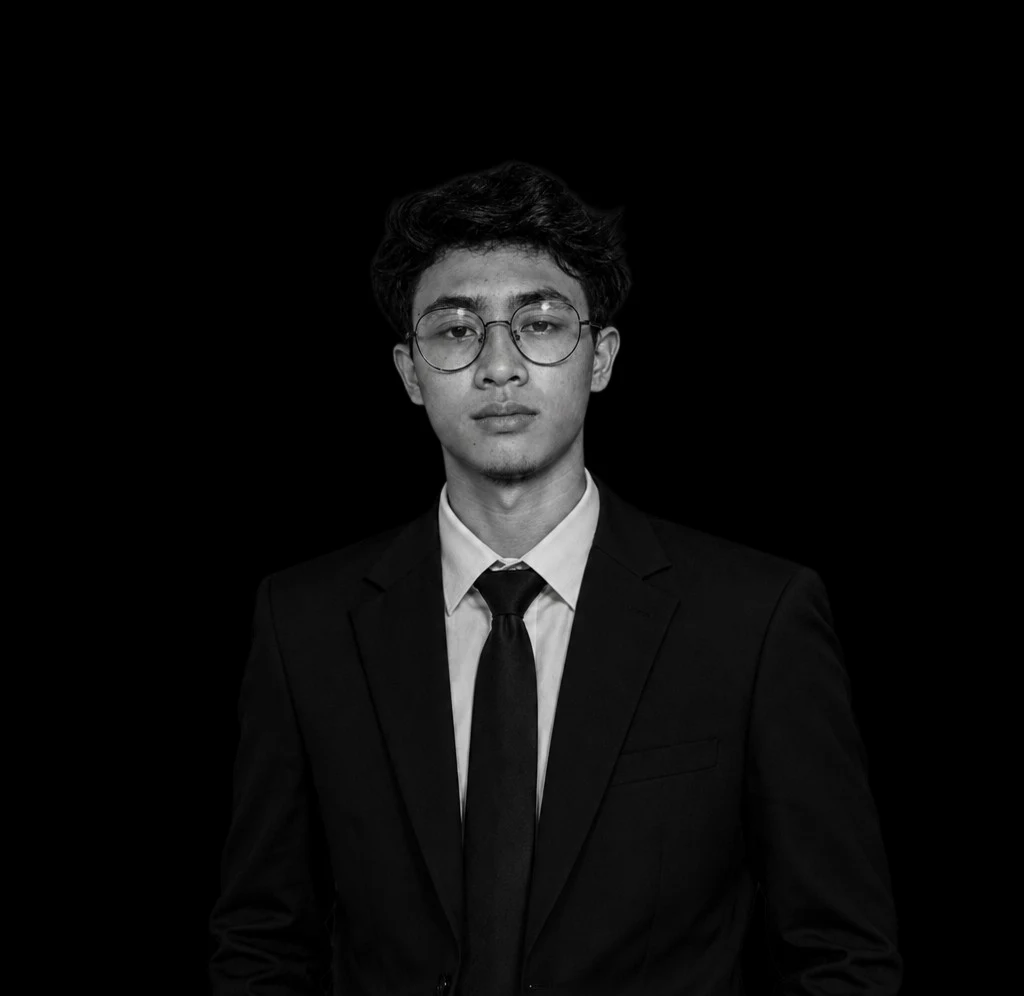
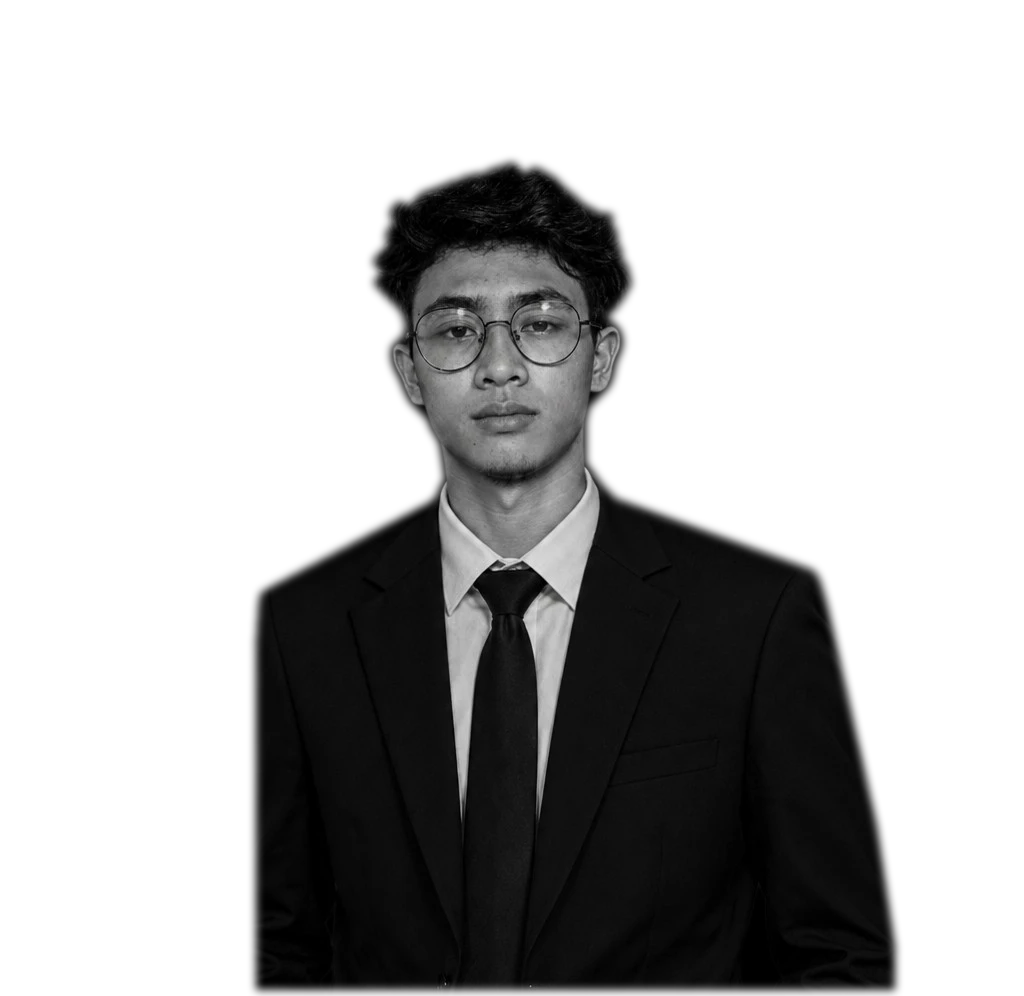
Sentuhan akhir: foto kontak baru, hero lebih lebar, FARROS diperkecil, potret transparan tanpa garis hitam
Claude-Session: https://claude.ai/code/session_0129G4VN59PCTKRLdZxBgguF

diff --git a/src/components/Hero.tsx b/src/components/Hero.tsx
@@ -54,14 +54,14 @@ export default function Hero() {
             fetchPriority="high"
             className="h-[72%] w-auto max-w-[110vw] object-contain object-bottom opacity-70 md:h-[88%] md:opacity-100"
             style={{
-              maskImage: 'radial-gradient(ellipse 52% 62% at 50% 46%, black 52%, transparent 100%)',
-              WebkitMaskImage: 'radial-gradient(ellipse 52% 62% at 50% 46%, black 52%, transparent 100%)',
+              maskImage: 'linear-gradient(to bottom, black 80%, transparent)',
+              WebkitMaskImage: 'linear-gradient(to bottom, black 80%, transparent)',
             }}
           />
         </motion.div>
       )}
 
-      <div className="relative z-10 mx-auto flex w-full max-w-7xl flex-1 flex-col px-6 lg:px-10">
+      <div className="relative z-10 mx-auto flex w-full max-w-[92rem] flex-1 flex-col px-5 lg:px-8">
         <motion.div variants={container} initial="hidden" animate="show" className="flex flex-1 flex-col">
           <motion.div variants={item} className="flex items-start justify-between gap-6 pt-10">
             <div>
@@ -82,7 +82,7 @@ export default function Hero() {
                 <span className="mb-5 ml-1 block origin-bottom-left -rotate-3 pb-1 font-script text-4xl normal-case leading-tight text-paper md:mb-7 md:text-5xl">
                   {heroCopy.greeting}
                 </span>
-                <span className="block font-display text-[clamp(4.5rem,13vw,10rem)] leading-[0.88] text-paper">
+                <span className="block font-display text-[clamp(3.75rem,10.5vw,8rem)] leading-[0.88] text-paper">
                   {firstName}
                   <span className="text-crimson">.</span>
                 </span>

diff --git a/src/data/portfolio.ts b/src/data/portfolio.ts
@@ -25,7 +25,7 @@ export const PROFILE_PHOTO: { src: string; alt: string } | null = {
 export const images = {
   contact: {
     src: '/images/github-avatar.webp',
-    alt: 'Foto profil GitHub Abdulloh Farros di perbukitan berkabut',
+    alt: 'Swafoto Abdulloh Farros berkacamata kuning di kebun teh',
   },
 } as const;
 
